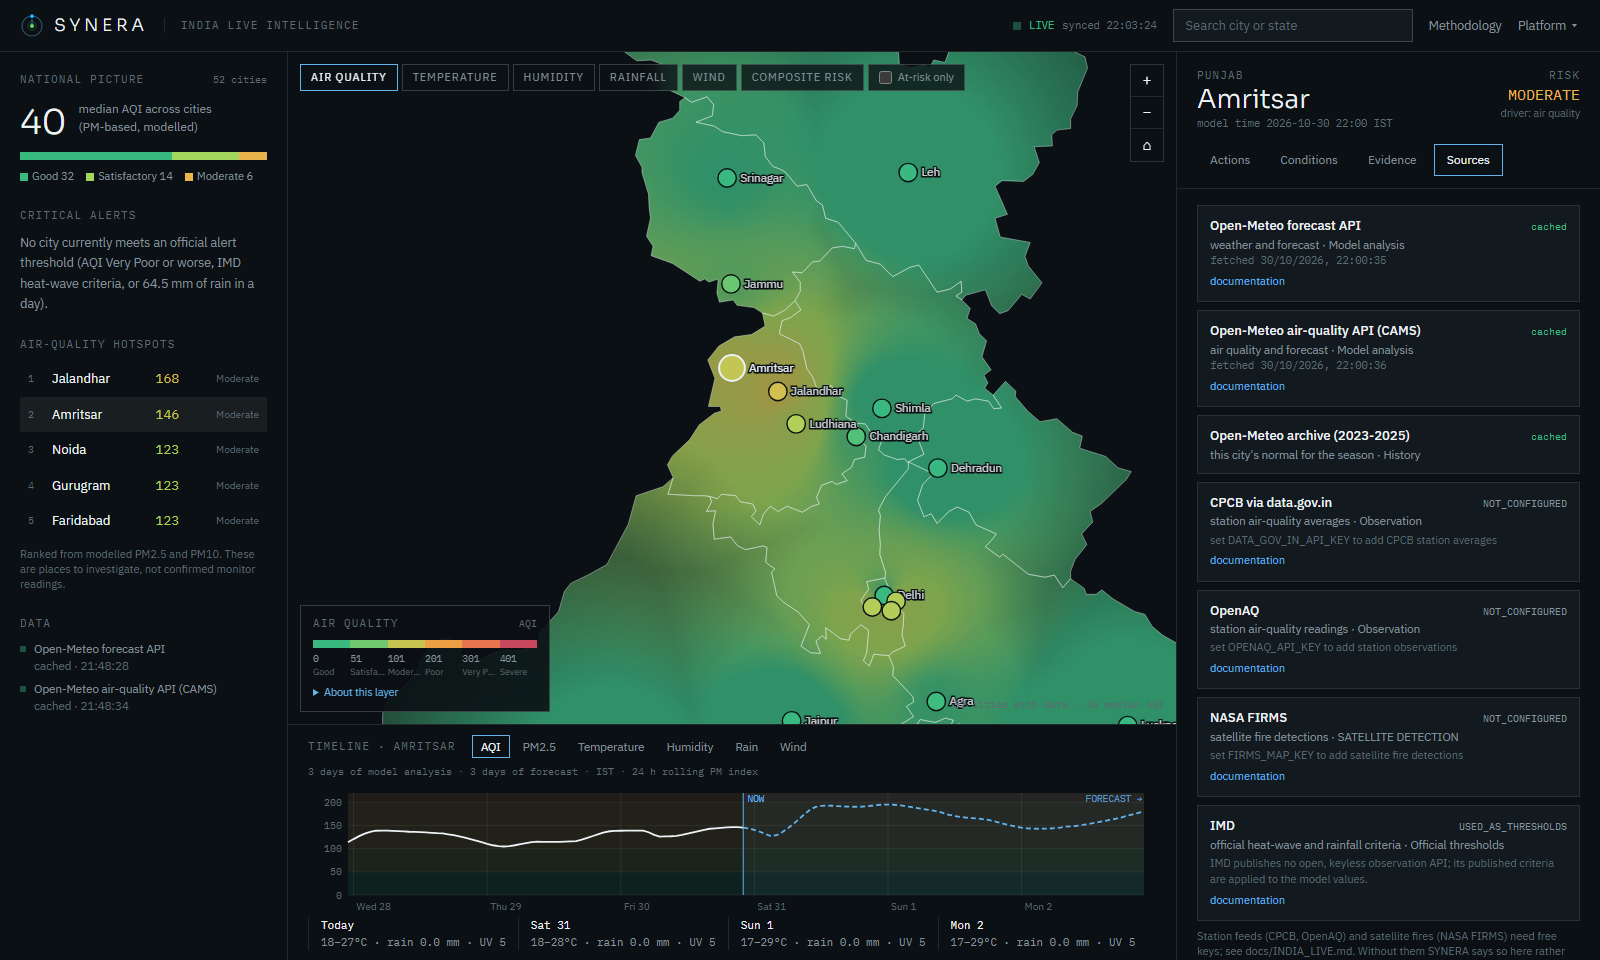
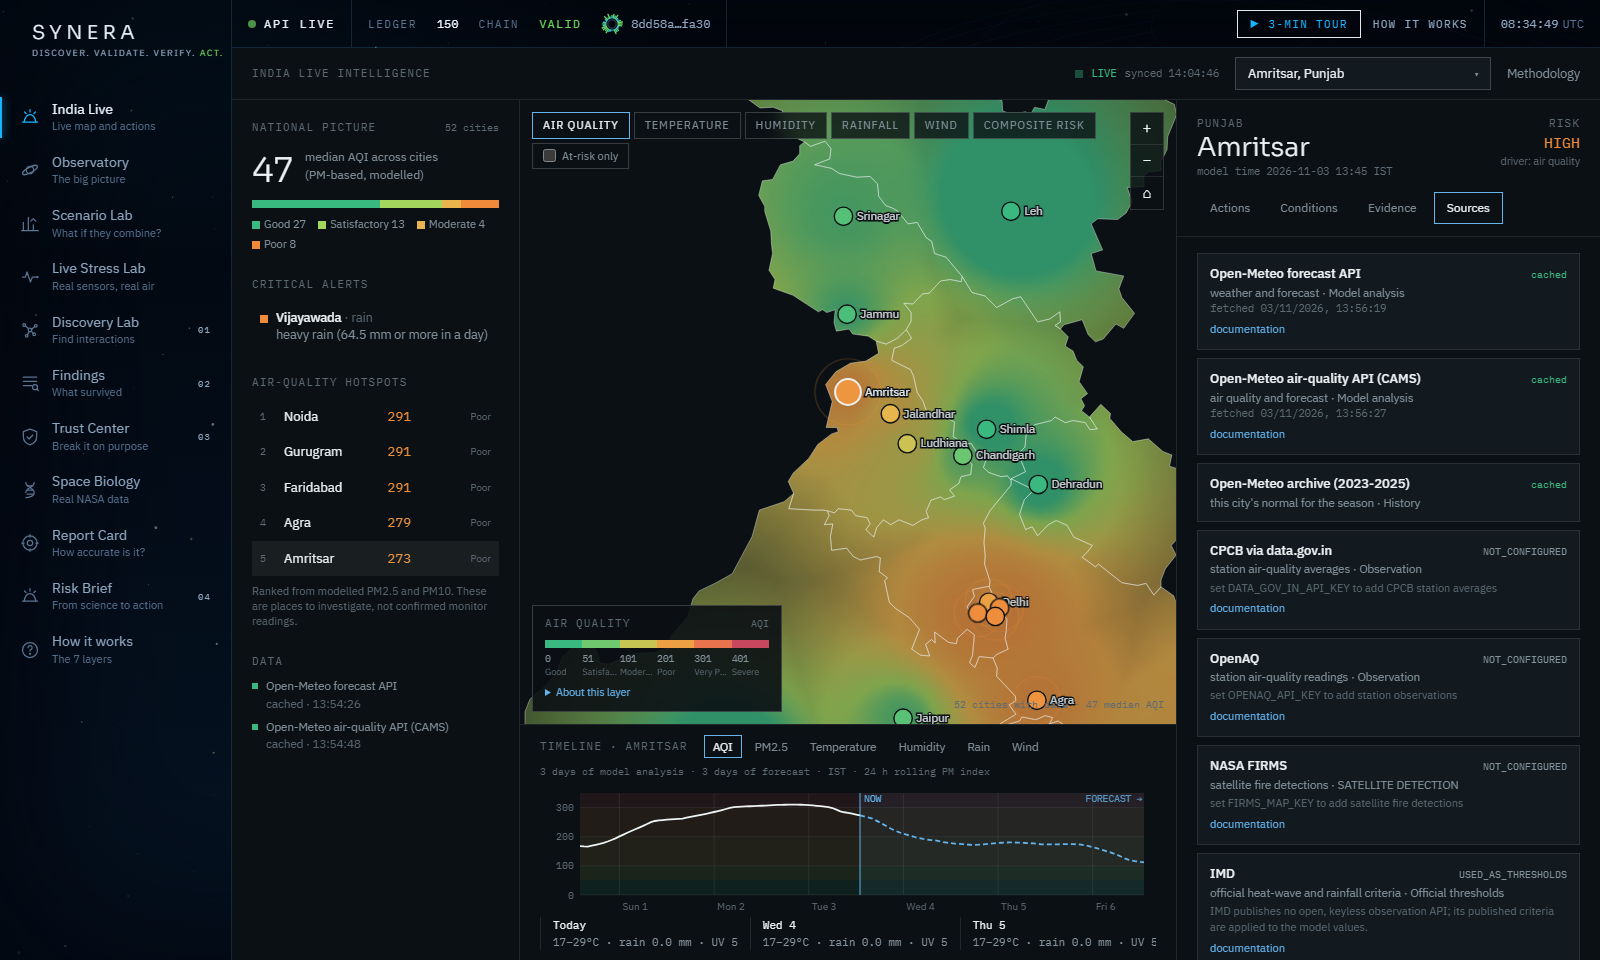
Final commits

diff --git a/frontend/src/app/pages/IndiaLive.tsx b/frontend/src/app/pages/IndiaLive.tsx
@@ -1,10 +1,10 @@
-import { useEffect, useMemo, useRef, useState } from 'react';
-import { Link, useSearchParams } from 'react-router-dom';
+import { useEffect, useRef, useState } from 'react';
+import { useSearchParams } from 'react-router-dom';
 import { useQuery } from '@tanstack/react-query';
 import { api, ApiError } from '../../lib/api';
 import { isStatic } from '../../lib/snapshot';
-import { fmt, type CityMarker, type LayerDef } from '../../lib/india';
-import { Logo } from '../../components/Logo';
+import { fmt, type LayerDef } from '../../lib/india';
+import { CityPicker } from '../../components/india/CityPicker';
 import { IndiaMap } from '../../components/india/IndiaMap';
 import { Legend } from '../../components/india/Legend';
 import { LeftBar } from '../../components/india/LeftBar';
@@ -14,28 +14,6 @@ import '../../components/india/india.css';
 
 const REFRESH_MS = 15 * 60 * 1000;
 const errText = (e: unknown) => (e instanceof ApiError || e instanceof Error ? e.message : e ? String(e) : null);
-const PLATFORM = [['/observatory', 'Observatory'], ['/scenario', 'Scenario Lab'], ['/live-stress-lab', 'Live Stress Lab'], ['/discovery', 'Discovery Lab'], ['/findings', 'Findings'], ['/trust', 'Trust Center'], ['/benchmark', 'Report Card'], ['/guide', 'How it works']];
-
-function Search({ cities, onPick }: { cities: CityMarker[]; onPick: (id: string) => void }) {
-  const [q, setQ] = useState(''), [open, setOpen] = useState(false), [i, setI] = useState(0);
-  const hits = useMemo(() => { const s = q.trim().toLowerCase(); return s ? cities.filter((c) => c.name.toLowerCase().includes(s) || c.state.toLowerCase().includes(s)).slice(0, 8) : []; }, [q, cities]);
-  const choose = (c: CityMarker) => { onPick(c.id); setQ(''); setOpen(false); };
-  return (
-    <div className="relative">
-      <label className="sr-only" htmlFor="in-search">Search a city</label>
-      <input id="in-search" role="combobox" aria-expanded={open && q.length > 0} aria-controls="in-hits" aria-autocomplete="list" value={q} placeholder="Search city or state"
-        onChange={(e) => { setQ(e.target.value); setOpen(true); setI(0); }} onFocus={() => setOpen(true)} onBlur={() => setTimeout(() => setOpen(false), 120)}
-        onKeyDown={(e) => { if (e.key === 'ArrowDown') { e.preventDefault(); setI((x) => Math.min(x + 1, hits.length - 1)); } else if (e.key === 'ArrowUp') { e.preventDefault(); setI((x) => Math.max(x - 1, 0)); } else if (e.key === 'Enter' && hits[i]) choose(hits[i]); else if (e.key === 'Escape') setOpen(false); }}
-        className="w-36 sm:w-44 lg:w-60 bg-[var(--in-bg2)] border border-[var(--in-line2)] px-3 py-1.5 text-[13px] placeholder:text-[var(--in-faint)]" />
-      {open && q.trim() && (
-        <ul id="in-hits" role="listbox" className="absolute right-0 mt-1 w-72 z-40 m-0 p-0 list-none border border-[var(--in-line2)] bg-[#0B1014] shadow-2xl max-h-72 overflow-auto">
-          {hits.length === 0 ? <li className="px-3 py-2 text-[12.5px] text-[var(--in-muted)]">No supported city matches "{q}". Cities are added in one line of the city list (see docs/INDIA_LIVE.md).</li> : hits.map((c, n) => (
-            <li key={c.id} role="option" aria-selected={n === i} onMouseDown={() => choose(c)} onMouseEnter={() => setI(n)} className={`px-3 py-2 text-[13px] cursor-pointer flex justify-between ${n === i ? 'bg-white/[0.08]' : ''}`}><span>{c.name}</span><span className="text-[11px] text-[var(--in-faint)]">{c.state}</span></li>))}
-        </ul>)}
-    </div>
-  );
-}
-
 const H = ({ children }: { children: React.ReactNode }) => <h3 className="lbl m-0 mt-5 mb-1.5">{children}</h3>;
 
 function Method({ onClose }: { onClose: () => void }) {
@@ -76,17 +54,14 @@ export default function IndiaLive() {
   const sync = data?.generated_at ? new Date(data.generated_at) : null;
 
   return (
-    <div className="india min-h-screen lg:h-screen flex flex-col topo">
+    <div className="india flex-1 min-h-0 flex flex-col topo">
       <header className="shrink-0 h-[52px] border-b rule flex items-center gap-3 sm:gap-4 px-3 sm:px-4 lg:px-5">
-        <Link to="/" className="flex items-center gap-2.5 shrink-0" aria-label="SYNERA India Live Intelligence, home"><Logo size={24} /><span className="hidden sm:inline display font-light text-[17px] tracking-[0.22em]">SYNERA</span></Link>
-        <span className="hidden md:block lbl border-l rule pl-4">India live intelligence</span>
+        <span className="lbl truncate">India live intelligence</span>
         <span className="flex-1" />
         <div className="hidden sm:flex items-center gap-2 num text-[10.5px]" role="status" aria-live="polite"><i className="w-2 h-2 india-live-dot" style={{ background: status.c }} /><span style={{ color: status.c }}>{status.t}</span>
           <span className="text-[var(--in-faint)] hidden lg:inline">{sync ? `synced ${sync.toLocaleTimeString()}` : ''}</span></div>
-        <Search cities={data?.cities ?? []} onPick={pick} />
+        <CityPicker id="in-search" label="Search a city" cities={data?.cities ?? []} selectedId={sel} onPick={pick} className="w-44 sm:w-56 lg:w-64" menuClassName="right-0 left-auto" />
         <button type="button" onClick={() => setMethod(true)} className="text-[12.5px] text-[var(--in-muted)] hover:text-[var(--in-text)] whitespace-nowrap">Methodology</button>
-        <details className="relative hidden md:block"><summary className="cursor-pointer text-[12.5px] text-[var(--in-muted)] hover:text-[var(--in-text)] list-none whitespace-nowrap">Platform ▾</summary>
-          <ul className="absolute right-0 mt-2 w-48 z-40 m-0 p-1 list-none border border-[var(--in-line2)] bg-[#0B1014]">{PLATFORM.map(([to, l]) => <li key={to}><Link to={to} className="block px-3 py-1.5 text-[13px] text-[var(--in-muted)] hover:bg-white/[0.06] hover:text-[var(--in-text)]">{l}</Link></li>)}</ul></details>
       </header>
 
       <div className="flex-1 min-h-0 flex flex-col lg:grid lg:grid-cols-[288px_minmax(0,1fr)_424px] lg:grid-rows-[minmax(0,1fr)_236px]">
@@ -94,7 +69,7 @@ export default function IndiaLive() {
           <LeftBar data={data} loading={ov.isLoading} error={errText(ov.error)} onSelect={pick} selectedId={sel} />
         </aside>
 
-        <main id="main" className="order-1 lg:order-none relative h-[64vh] min-h-[420px] lg:h-auto lg:min-h-0" aria-label="Map of India">
+        <section className="order-1 lg:order-none relative h-[64vh] min-h-[420px] lg:h-auto lg:min-h-0" aria-label="Map of India">
           {ov.isLoading && <div className="absolute inset-0 grid place-items-center"><div className="text-center"><div className="india-skel w-48 h-2 mx-auto" /><div className="lbl mt-3">Fetching live readings for 52 cities…</div></div></div>}
           {!ov.isLoading && (ov.error || (data && !data.available)) && <div className="absolute inset-0 grid place-items-center px-8 text-center" role="alert"><div className="max-w-md"><div className="lbl text-[var(--in-crit)]">The map has no live data</div>
             <p className="text-[13.5px] leading-relaxed text-[var(--in-muted)]">{errText(ov.error) ?? data?.reason} No readings are drawn rather than invented ones.</p><button type="button" onClick={() => ov.refetch()} className="px-3 py-1.5 text-[12.5px] border border-[var(--in-line2)] hover:bg-white/[0.06]">Try again</button></div></div>}
@@ -107,10 +82,10 @@ export default function IndiaLive() {
             <div className="absolute left-3 bottom-3"><Legend layer={layer} /></div>
             <div className="absolute right-3 bottom-3 hidden md:block num text-[10px] text-[var(--in-faint)] text-right">{data.cities.filter((c) => c.aqi !== null).length} cities with data · {fmt(data.national?.median_aqi)} median AQI</div>
           </>}
-        </main>
+        </section>
 
         <aside className="order-2 lg:order-none lg:row-span-2 border-t lg:border-t-0 lg:border-l rule bg-[var(--in-bg)]/80 min-h-[300px] lg:min-h-0 lg:overflow-hidden" aria-label="City intelligence">
-          <CityPanel key={sel ?? 'none'} id={sel} data={city.data} loading={city.isLoading} error={errText(city.error)} onRetry={() => city.refetch()} onPick={pick} />
+          <CityPanel key={sel ?? 'none'} id={sel} cities={data?.cities ?? []} data={city.data} loading={city.isLoading} error={errText(city.error)} onRetry={() => city.refetch()} onPick={pick} />
         </aside>
 
         <div className="order-4 lg:order-none border-t rule bg-[var(--in-bg)]/70 min-h-[230px] lg:min-h-0"><Timeline data={sel ? city.data : undefined} loading={!!sel && city.isLoading} /></div>

diff --git a/frontend/src/components/india/CityPicker.tsx b/frontend/src/components/india/CityPicker.tsx
@@ -1,0 +1,51 @@
+import { useEffect, useMemo, useRef, useState } from 'react';
+
+type Option = { id: string; name: string; state: string };
+
+/** Rank: name starts with the text, then name contains it, then state matches. Empty text lists every city, A to Z. */
+export function filterCities<T extends Option>(cities: T[], text: string): T[] {
+  const s = text.trim().toLowerCase();
+  const sorted = [...cities].sort((a, b) => a.name.localeCompare(b.name));
+  if (!s) return sorted;
+  const rank = (c: T) => (c.name.toLowerCase().startsWith(s) ? 0 : c.name.toLowerCase().includes(s) ? 1 : c.state.toLowerCase().includes(s) ? 2 : 3);
+  return sorted.filter((c) => rank(c) < 3).sort((a, b) => rank(a) - rank(b));
+}
+
+/** A generic searchable dropdown: click to see every city, type to narrow the list ("amr" shows Amritsar), arrow keys and Enter to choose. */
+export function CityPicker({ id, label, cities, selectedId, onPick, className = '', menuClassName = '' }: {
+  id: string; label: string; cities: Option[]; selectedId?: string | null; onPick: (id: string) => void; className?: string; menuClassName?: string;
+}) {
+  const [q, setQ] = useState(''), [open, setOpen] = useState(false), [i, setI] = useState(0);
+  const list = useRef<HTMLUListElement>(null);
+  const selected = cities.find((c) => c.id === selectedId);
+  const hits = useMemo(() => filterCities(cities, q), [q, cities]);
+  const choose = (c: Option) => { onPick(c.id); setQ(''); setOpen(false); };
+  useEffect(() => { list.current?.querySelector<HTMLElement>('[aria-selected="true"]')?.scrollIntoView({ block: 'nearest' }); }, [i, open]);
+  const last = Math.max(hits.length - 1, 0);
+  return (
+    <div className={`relative ${className}`}>
+      <label className="sr-only" htmlFor={id}>{label}</label>
+      <input id={id} role="combobox" aria-expanded={open} aria-controls={`${id}-list`} aria-autocomplete="list" autoComplete="off" value={q}
+        placeholder={selected ? `${selected.name}, ${selected.state}` : cities.length ? `Choose a city (${cities.length})` : 'Loading cities…'}
+        disabled={!cities.length}
+        onChange={(e) => { setQ(e.target.value); setOpen(true); setI(0); }} onFocus={() => setOpen(true)} onClick={() => setOpen(true)} onBlur={() => setTimeout(() => setOpen(false), 120)}
+        onKeyDown={(e) => {
+          if (e.key === 'ArrowDown') { e.preventDefault(); setOpen(true); setI((x) => Math.min(x + 1, last)); }
+          else if (e.key === 'ArrowUp') { e.preventDefault(); setI((x) => Math.max(x - 1, 0)); }
+          else if (e.key === 'Enter' && open && hits[i]) { e.preventDefault(); choose(hits[i]); }
+          else if (e.key === 'Escape') { setOpen(false); setQ(''); }
+        }}
+        className={`w-full bg-[var(--in-bg2)] border border-[var(--in-line2)] pl-3 pr-8 py-1.5 text-[13px] placeholder:text-[var(--in-muted)] ${selected ? 'placeholder:text-[var(--in-text)]' : ''}`} />
+      <span aria-hidden className="pointer-events-none absolute right-2.5 top-1/2 -translate-y-1/2 text-[10px] text-[var(--in-muted)]">▾</span>
+      {open && (
+        <ul id={`${id}-list`} ref={list} role="listbox" aria-label="Matching cities" className={`absolute left-0 mt-1 w-full min-w-[15rem] z-40 m-0 p-0 list-none border border-[var(--in-line2)] bg-[#0B1014] shadow-2xl max-h-72 overflow-auto scroll ${menuClassName}`}>
+          {hits.length === 0 ? <li className="px-3 py-2 text-[12.5px] text-[var(--in-muted)]">No city matches "{q}". The map covers {cities.length} Indian cities; adding one is one line in the city list (docs/INDIA_LIVE.md).</li>
+            : hits.map((c, n) => (
+              <li key={c.id} role="option" aria-selected={n === i} onMouseDown={() => choose(c)} onMouseEnter={() => setI(n)}
+                className={`px-3 py-2 text-[13px] cursor-pointer flex justify-between gap-3 ${n === i ? 'bg-white/[0.08]' : ''} ${c.id === selectedId ? 'text-[var(--in-accent)]' : ''}`}>
+                <span>{c.name}</span><span className="text-[11px] text-[var(--in-faint)]">{c.state}</span>
+              </li>))}
+        </ul>)}
+    </div>
+  );
+}

diff --git a/frontend/src/components/india/CityPanel.tsx b/frontend/src/components/india/CityPanel.tsx
@@ -1,4 +1,5 @@
 import { useState } from 'react';
+import { CityPicker } from './CityPicker';
 import { color, compass, fmt, KIND_LABEL, URGENCY_STYLE, WINDOW_LABEL, type Explain, type IndiaCity, type Kind, type Metric, type Recommendation } from '../../lib/india';
 
 const TABS = ['Actions', 'Conditions', 'Evidence', 'Sources'] as const;
@@ -139,15 +140,15 @@ function Sources({ c }: { c: IndiaCity }) {
   );
 }
 
-export function CityPanel({ id, data, loading, error, onRetry, onPick }: { id: string | null; data?: IndiaCity; loading: boolean; error: string | null; onRetry: () => void; onPick: (id: string) => void }) {
+export function CityPanel({ id, cities, data, loading, error, onRetry, onPick }: { id: string | null; cities: { id: string; name: string; state: string }[]; data?: IndiaCity; loading: boolean; error: string | null; onRetry: () => void; onPick: (id: string) => void }) {
   const [tab, setTab] = useState<Tab>('Actions');
   const [all, setAll] = useState(false);
   if (!id) return (
     <div className="p-6 grid gap-4 content-start">
       <div className="lbl">City intelligence</div>
-      <h2 className="display m-0 text-[22px] font-light leading-tight">Select a city on the map</h2>
+      <h2 className="display m-0 text-[22px] font-light leading-tight">Select a city on the map, or choose one below</h2>
       <p className="m-0 text-[13.5px] leading-relaxed text-[var(--in-muted)]">SYNERA fetches that city's live readings, checks them, runs them through the engine and tells you what to do now, with the evidence for each action.</p>
-      <div className="flex flex-wrap gap-2">{[['amritsar', 'Amritsar'], ['delhi', 'Delhi'], ['mumbai', 'Mumbai'], ['bengaluru', 'Bengaluru'], ['kolkata', 'Kolkata']].map(([k, n]) => <button key={k} type="button" onClick={() => onPick(k)} className="px-3 py-1.5 text-[12.5px] border border-[var(--in-line2)] hover:bg-white/[0.06]">{n}</button>)}</div>
+      <CityPicker id="in-panel-pick" label="Choose a city" cities={cities} selectedId={id} onPick={onPick} />
     </div>);
   if (loading) return <div className="p-6 grid gap-3" aria-busy="true" aria-label="Loading city intelligence"><div className="lbl">Fetching live readings and running the engine…</div>{[60, 120, 160, 160].map((h, i) => <div key={i} className="india-skel" style={{ height: h }} />)}</div>;
   if (error || !data) return <div className="p-6" role="alert"><div className="lbl text-[var(--in-crit)]">Could not load</div><p className="text-[13px] text-[var(--in-muted)]">{error ?? 'No response.'}</p><button type="button" onClick={onRetry} className="px-3 py-1.5 text-[12.5px] border border-[var(--in-line2)] hover:bg-white/[0.06]">Try again</button></div>;

diff --git a/frontend/src/app/pages/Observatory.tsx b/frontend/src/app/pages/Observatory.tsx
@@ -98,21 +98,6 @@ export default function Observatory() {
       </section>
 
       <PipelineStrip />
-
-      <section className="px-6 md:px-10 pb-16 grid md:grid-cols-2 xl:grid-cols-5 gap-8 border-t border-line pt-10">
-        {[
-          { t: 'Track A · REAL', c: 'text-biosphere', d: 'NASA space-biology data: radiation × hindlimb unloading in mouse spleen and skin. Small samples, honest limits.', to: '/space-biology' },
-          { t: 'Track C · REAL OUTCOMES', c: 'text-biosphere', d: 'CDC weekly deaths in 46 US states joined to EPA air pollution and weather. Scenario Lab: combine stressors and see the estimated consequence.', to: '/scenario' },
-          { t: 'Track D · REAL, INDIA GRID', c: 'text-biosphere', d: 'Daily electricity supplied to Indian states joined to weather: a real system where the engine tests for combined effects. Grid stress, not health.', to: '/discovery' },
-          { t: 'Track B · SIMULATED', c: 'text-solar', d: 'Real weather and air-quality covariates with a planted, known interaction outcome. It measures how good the engine is.', to: '/benchmark' },
-          { t: 'The trust layer', c: 'text-signal', d: 'SHA-256 fingerprints, anomaly detection, a signed hash-chained ledger and a replay of every run.', to: '/trust' },
-        ].map((x) => (
-          <Link key={x.t} to={x.to} className="group block border-t border-line-strong pt-4">
-            <div className={`num text-xs tracking-[0.16em] mb-2 ${x.c}`}>{x.t}</div>
-            <p className="text-sm text-muted leading-relaxed m-0 group-hover:text-text">{x.d}</p>
-          </Link>
-        ))}
-      </section>
     </div>
   );
 }

diff --git a/frontend/src/tests/cityPicker.test.ts b/frontend/src/tests/cityPicker.test.ts
@@ -1,0 +1,24 @@
+import { describe, expect, it } from 'vitest';
+import { filterCities } from '../components/india/CityPicker';
+
+const C = [
+  { id: 'delhi', name: 'Delhi', state: 'Delhi' }, { id: 'amritsar', name: 'Amritsar', state: 'Punjab' }, { id: 'agra', name: 'Agra', state: 'Uttar Pradesh' },
+  { id: 'chandigarh', name: 'Chandigarh', state: 'Chandigarh' }, { id: 'ludhiana', name: 'Ludhiana', state: 'Punjab' },
+];
+
+describe('city dropdown filter', () => {
+  it('lists every city A to Z when nothing is typed', () => {
+    expect(filterCities(C, '').map((c) => c.name)).toEqual(['Agra', 'Amritsar', 'Chandigarh', 'Delhi', 'Ludhiana']);
+  });
+  it('narrows to matching cities as you type, case-insensitively', () => {
+    expect(filterCities(C, 'Amr').map((c) => c.id)).toEqual(['amritsar']);
+    expect(filterCities(C, 'AMR').map((c) => c.id)).toEqual(['amritsar']);
+  });
+  it('ranks names that start with the text above names that merely contain it, then state matches', () => {
+    expect(filterCities(C, 'd').map((c) => c.id)).toEqual(['delhi', 'chandigarh', 'ludhiana', 'agra']);   // starts with d, contains d, only the state (Uttar Pradesh) contains d
+    expect(filterCities(C, 'punjab').map((c) => c.id)).toEqual(['amritsar', 'ludhiana']);
+  });
+  it('returns nothing when nothing matches', () => {
+    expect(filterCities(C, 'zzz')).toEqual([]);
+  });
+});

diff --git a/frontend/src/app/App.tsx b/frontend/src/app/App.tsx
@@ -1,4 +1,4 @@
-import { lazy, Suspense } from 'react';
+import { lazy } from 'react';
 import { BrowserRouter, Route, Routes } from 'react-router-dom';
 import { QueryClient, QueryClientProvider } from '@tanstack/react-query';
 import { Layout } from './Layout';
@@ -25,9 +25,9 @@ export function App() {
     <QueryClientProvider client={queryClient}>
       <BrowserRouter>
         <Routes>
-          {/* The home page is the India command centre: it has its own full-screen shell instead of the platform rail. */}
-          <Route index element={<Suspense fallback={<div className="min-h-screen bg-[#0B1014]" />}><IndiaLive /></Suspense>} />
           <Route element={<Layout />}>
+            {/* The home page is the India command centre; it shares the left rail with every other page. */}
+            <Route index element={<IndiaLive />} />
             <Route path="observatory" element={<Observatory />} />
             <Route path="discovery" element={<Discovery />} />
             <Route path="findings" element={<Findings />} />

diff --git a/frontend/src/app/Layout.tsx b/frontend/src/app/Layout.tsx
@@ -9,14 +9,15 @@ import { Skeleton } from '../components/States';
 
 export function Layout() {
   const { pathname } = useLocation();
+  const home = pathname === '/';   // the India map fills the viewport beside the rail; every other page scrolls
   return (
     <div className="relative flex min-h-screen text-text">
       <Backdrop />
       <Rail />
-      <div className="relative z-10 flex-1 min-w-0 flex flex-col min-h-screen pb-16 lg:pb-0">
+      <div className={`relative z-10 flex-1 min-w-0 flex flex-col min-h-screen pb-16 lg:pb-0 ${home ? 'lg:h-screen lg:min-h-0 lg:overflow-hidden' : ''}`}>
         <TopBar />
         <StaticBanner />
-        <main id="main" className="flex-1" key={pathname}>
+        <main id="main" className={`flex-1 ${home ? 'min-h-0 flex flex-col' : ''}`} key={pathname}>
           <Suspense fallback={<div className="p-10"><Skeleton h={220} label="ENTERING ORBIT" /></div>}>
             <Outlet />
           </Suspense>
